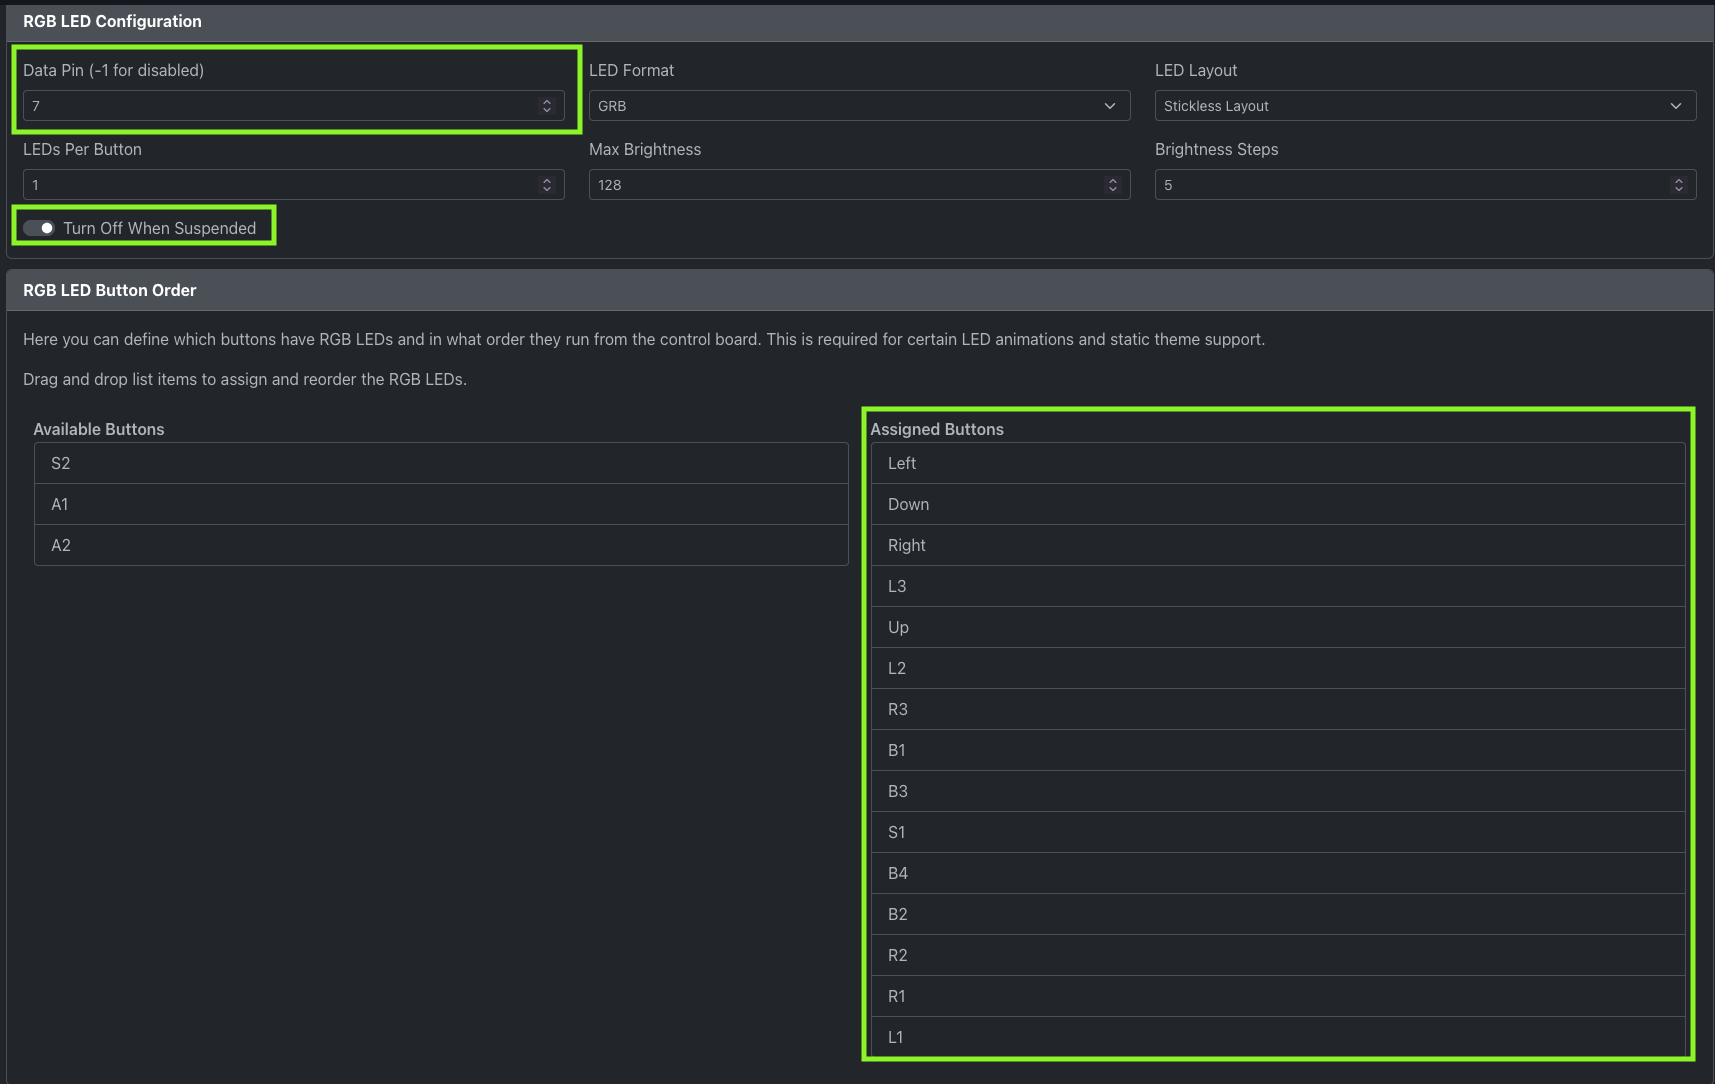
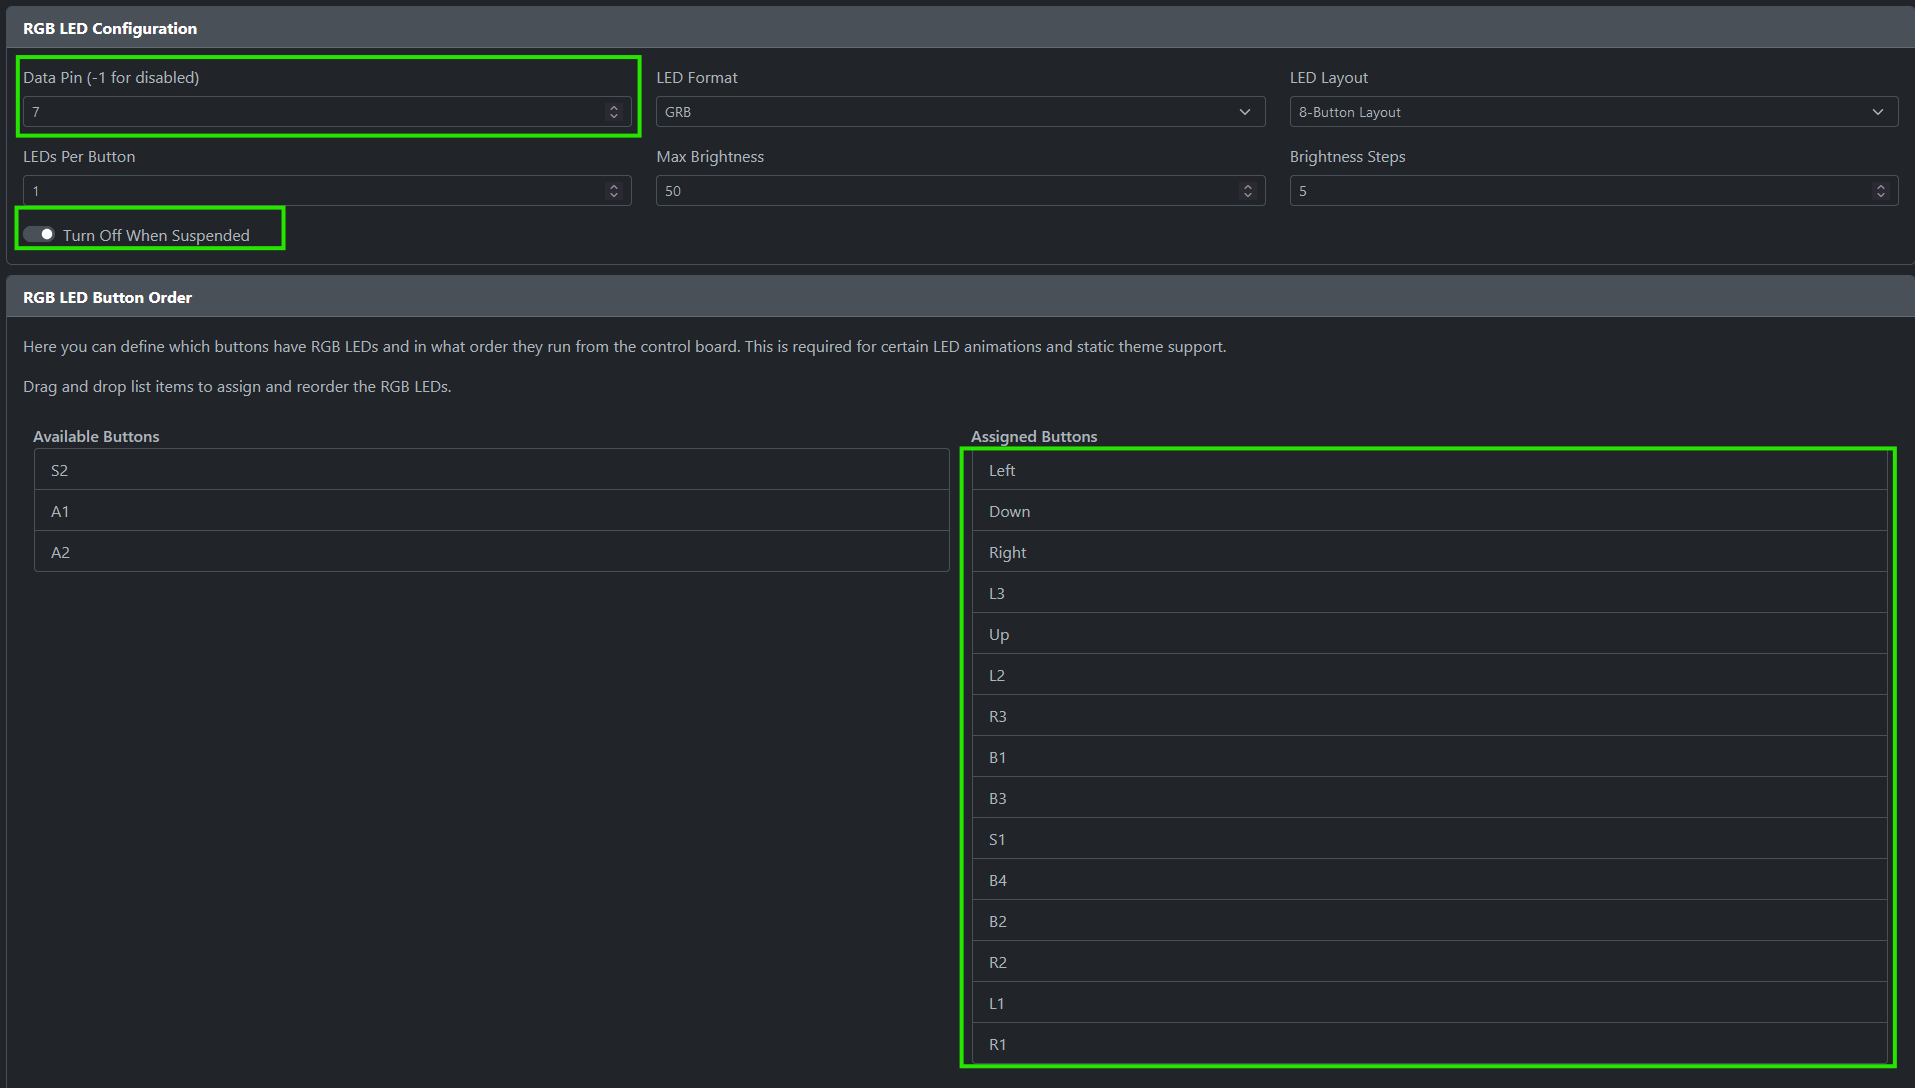
Updated LED config image to set proper order for LEDs (#16)
* switched R1/L1 to reflect correct LED order

* Update README.md

added ? to image url to force image update

---------

diff --git a/hardware-rgb/README.md b/hardware-rgb/README.md
@@ -8,7 +8,7 @@ This is a RGB rev of the ergoSHIFT.  In this version, RGB LEDs were added to eac
 The firmware from the [Original GP2040-CE website](https://gp2040-ce.info/downloads) will work along with enabling the RGB LED via the GP2040-CE Web Configurator.
 You may also use the firmware in the [Firmware Directory](../firmware_GP2040-CE/) which support original OLED display layout.
 
-![LED Configuration](./images/ergoshift_rgb_LED_config.png)
+![LED Configuration](./images/ergoshift_rgb_LED_config.png?)
 
 This version of Ergoshift has been modified to only work in the standard (non Southpaw) configuration so that there is PCB area for RGB LEDs. The Kailh sockets are also required for this version (rev2 can use Kailh sockets or switches directly) and can only be installed in the normal configuration.
 
